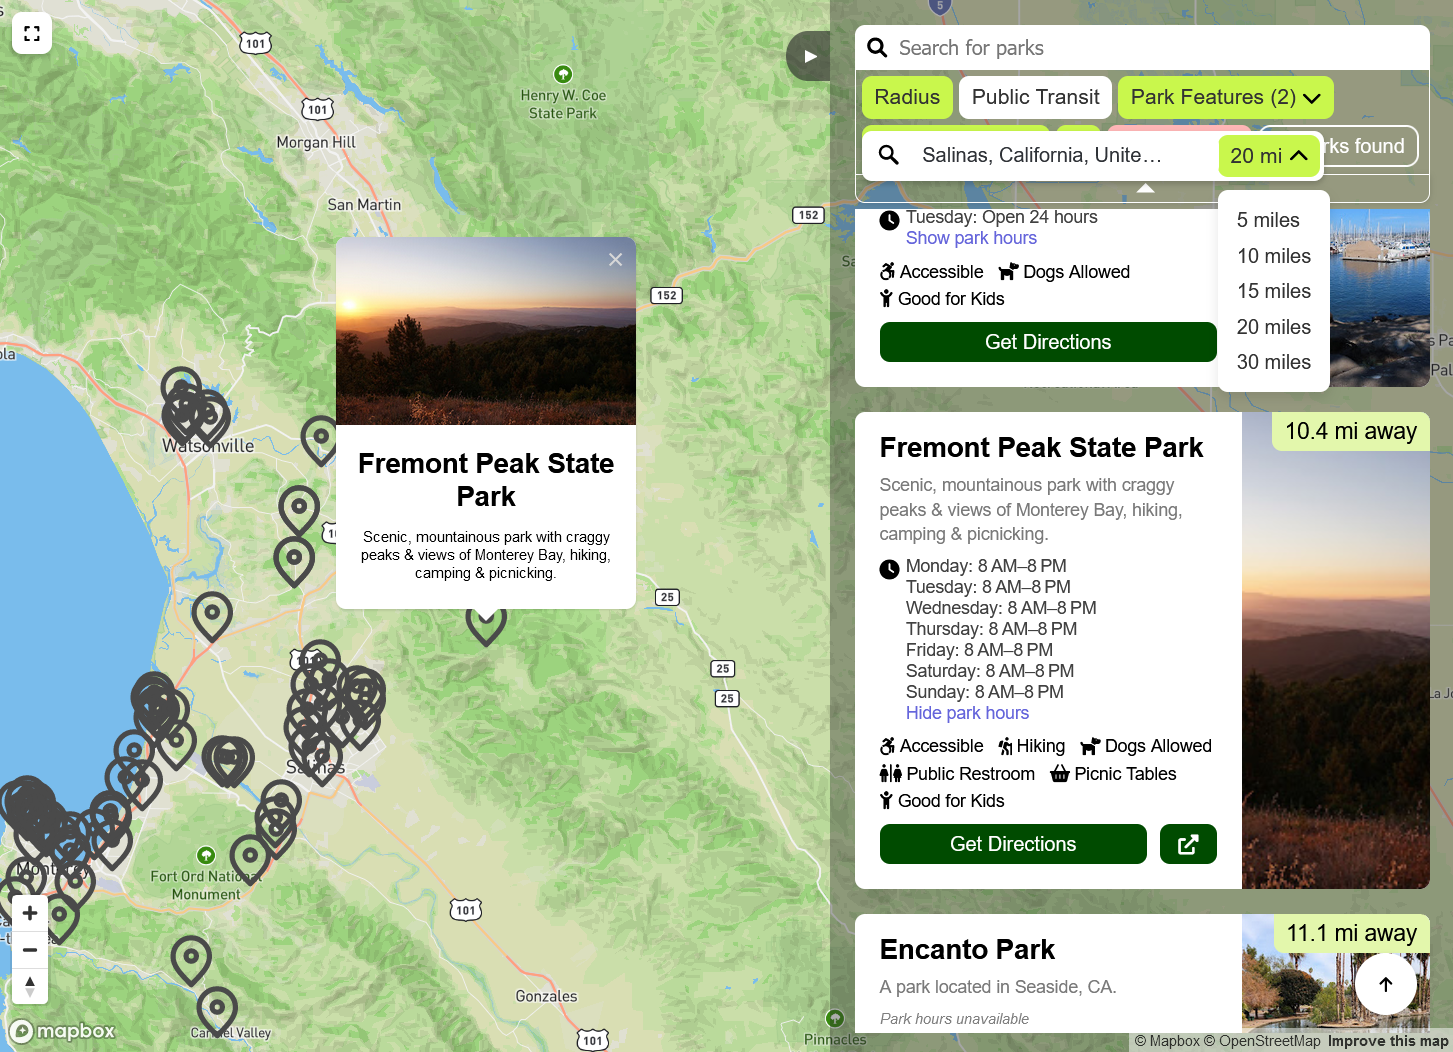
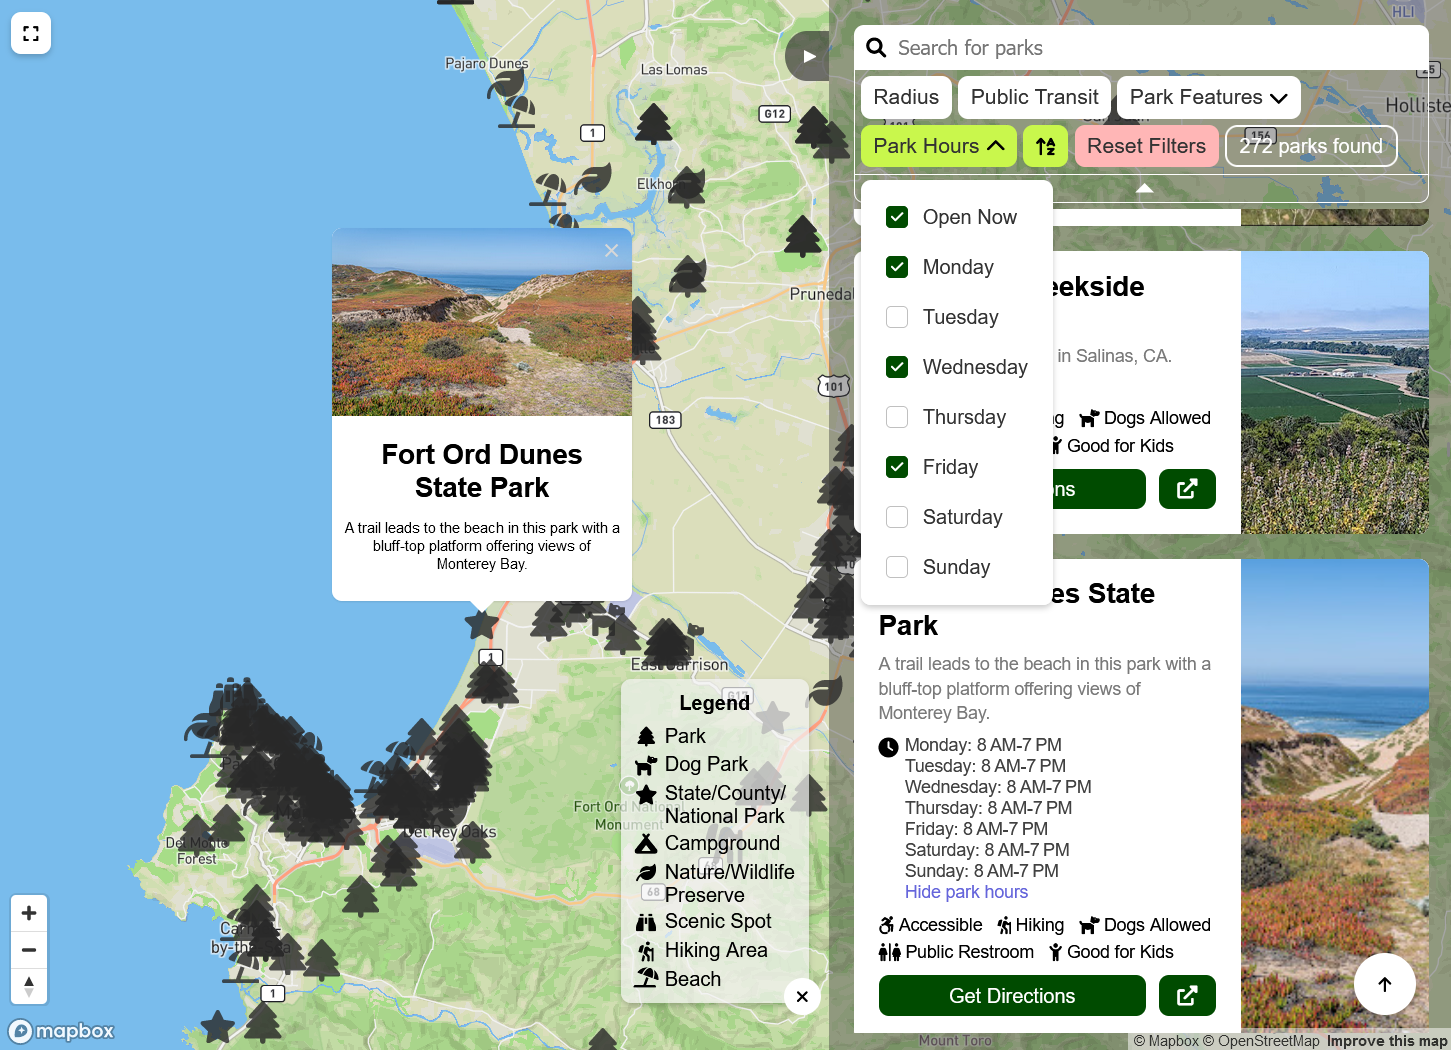
feat: updated projects

diff --git a/src/data/MenuData.js b/src/data/MenuData.js
@@ -189,6 +189,36 @@ export const experienceData = [
 
 export const projectData = [
   {
+    title: "ParkRX Monterey County Search Feature Map",
+    url: "https://parkrxmontereycounty.org/#parks",
+    subtitle: "Custom-coded Map with Search Filters",
+    tags: [
+      "Mapbox",
+      "WordPress",
+      "JavaScript",
+      "jQuery",
+      "PHP",
+      "XML",
+      "AJAX",
+      "HTML/CSS",
+    ],
+    img: ["blueparkrx.png"],
+    description:
+      "A custom map that displays park information and allows Monterey County residents to search parks in a radius, by name, by hours, alphabetically, by park features, and give public transit routes.",
+    link: [
+      {
+        name: "Demo",
+        url: "https://parkrxmontereycounty.org/#parks",
+        size: 22,
+      },
+      {
+        name: "Website",
+        url: "https://parkrxmontereycounty.org/",
+        size: 22,
+      },
+    ],
+  },
+  {
     title: "ASL Hand Recognition App",
     url: "https://jamesvdinh.github.io/asl-app/",
     subtitle: "Computer Vision Sign Lanugage Translator",
@@ -202,7 +232,7 @@ export const projectData = [
     ],
     img: ["asl-pic-1.png", "asl-pic-2.jpg"],
     description:
-      "A web application that assists Deaf/Hard of Hearing individuals in learning American Sign Language (ASL). Utilized MediaPipe and TensorFlow to train a model using a dataset of 87,000 images from the NIDCD. Implemented model in a JavaScript environment to recognize ASL letters from a computer webcam. Frontend- JavaScript, HTML/CSS. Backend- TensorFlow, MediaPipe, Python.",
+      "A web application that assists Deaf/Hard of Hearing individuals in learning American Sign Language (ASL). Utilized MediaPipe and TensorFlow to train a model using a dataset of 87,000 images from the NIDCD. Implemented model in a JavaScript environment to recognize ASL letters from a computer webcam.",
     link: [
       {
         name: "Demo",
@@ -227,43 +257,13 @@ export const projectData = [
     ],
   },
   {
-    title: "BlueParkRX Dynamic Map",
-    url: "https://parkrxmontereycounty.org/#parks",
-    subtitle: "Custom-coded Map with Proximity and Filter Functionality",
-    tags: [
-      "Mapbox",
-      "WordPress",
-      "JavaScript",
-      "jQuery",
-      "PHP",
-      "XML",
-      "AJAX",
-      "HTML/CSS",
-    ],
-    img: ["blueparkrx.png"],
-    description:
-      "A custom map that displays park information and allows Monterey Park residents to search parks in a radius, by name, by hours, alphabetically, by park features, and give public transit routes. Frontend- JavaScript, HTML/CSS, WordPress. Backend- PHP, jQuery, Fetch API",
-    link: [
-      {
-        name: "Demo",
-        url: "https://parkrxmontereycounty.org/#parks",
-        size: 22,
-      },
-      {
-        name: "Website",
-        url: "https://parkrxmontereycounty.org/",
-        size: 22,
-      },
-    ],
-  },
-  {
-    title: "Project Development Search Tool",
+    title: "Catalyze SV Project Filter Search Tool",
     url: "https://www.shapesv.org/projects",
     subtitle: "Dynamic Search Menu using Fetch API and JS",
     tags: ["Wix", "Velo", "HTML/CSS", "JavaScript"],
     img: ["catalyzesv-1.png"],
     description:
-      "A search tool designed for users to specify filters and display a list of queried projects for Shape SV. Used GET fetch to retrieve data from Google Sheets database to display list of dynamic projects using iframe. Frontend- JavaScript, HTML/CSS, Wix. Backend- Fetch API.",
+      "A search tool designed for users to specify filters and display a list of queried projects for Shape SV. Used GET fetch to retrieve data from Google Sheets database to display list of dynamic projects using iframe.",
     link: [
       {
         name: "Demo",
@@ -284,7 +284,7 @@ export const projectData = [
     tags: ["Flask API", "Python", "React", "JavaScript"],
     img: ["roomie-finder.png"],
     description:
-      "An app that takes user-input criteria and outputs potential roomates that closely matches that criteria using a scoring-based algorithm. Team submission for DA Hacks 2023. Frontend- React, Javascript. Backend- Flask API, Python, Fetch API.",
+      "An app that takes user-input criteria and outputs potential roomates that closely matches that criteria using a scoring-based algorithm. Team submission for De Anza Hacks 2023.",
     link: [
       {
         name: "Demo",
